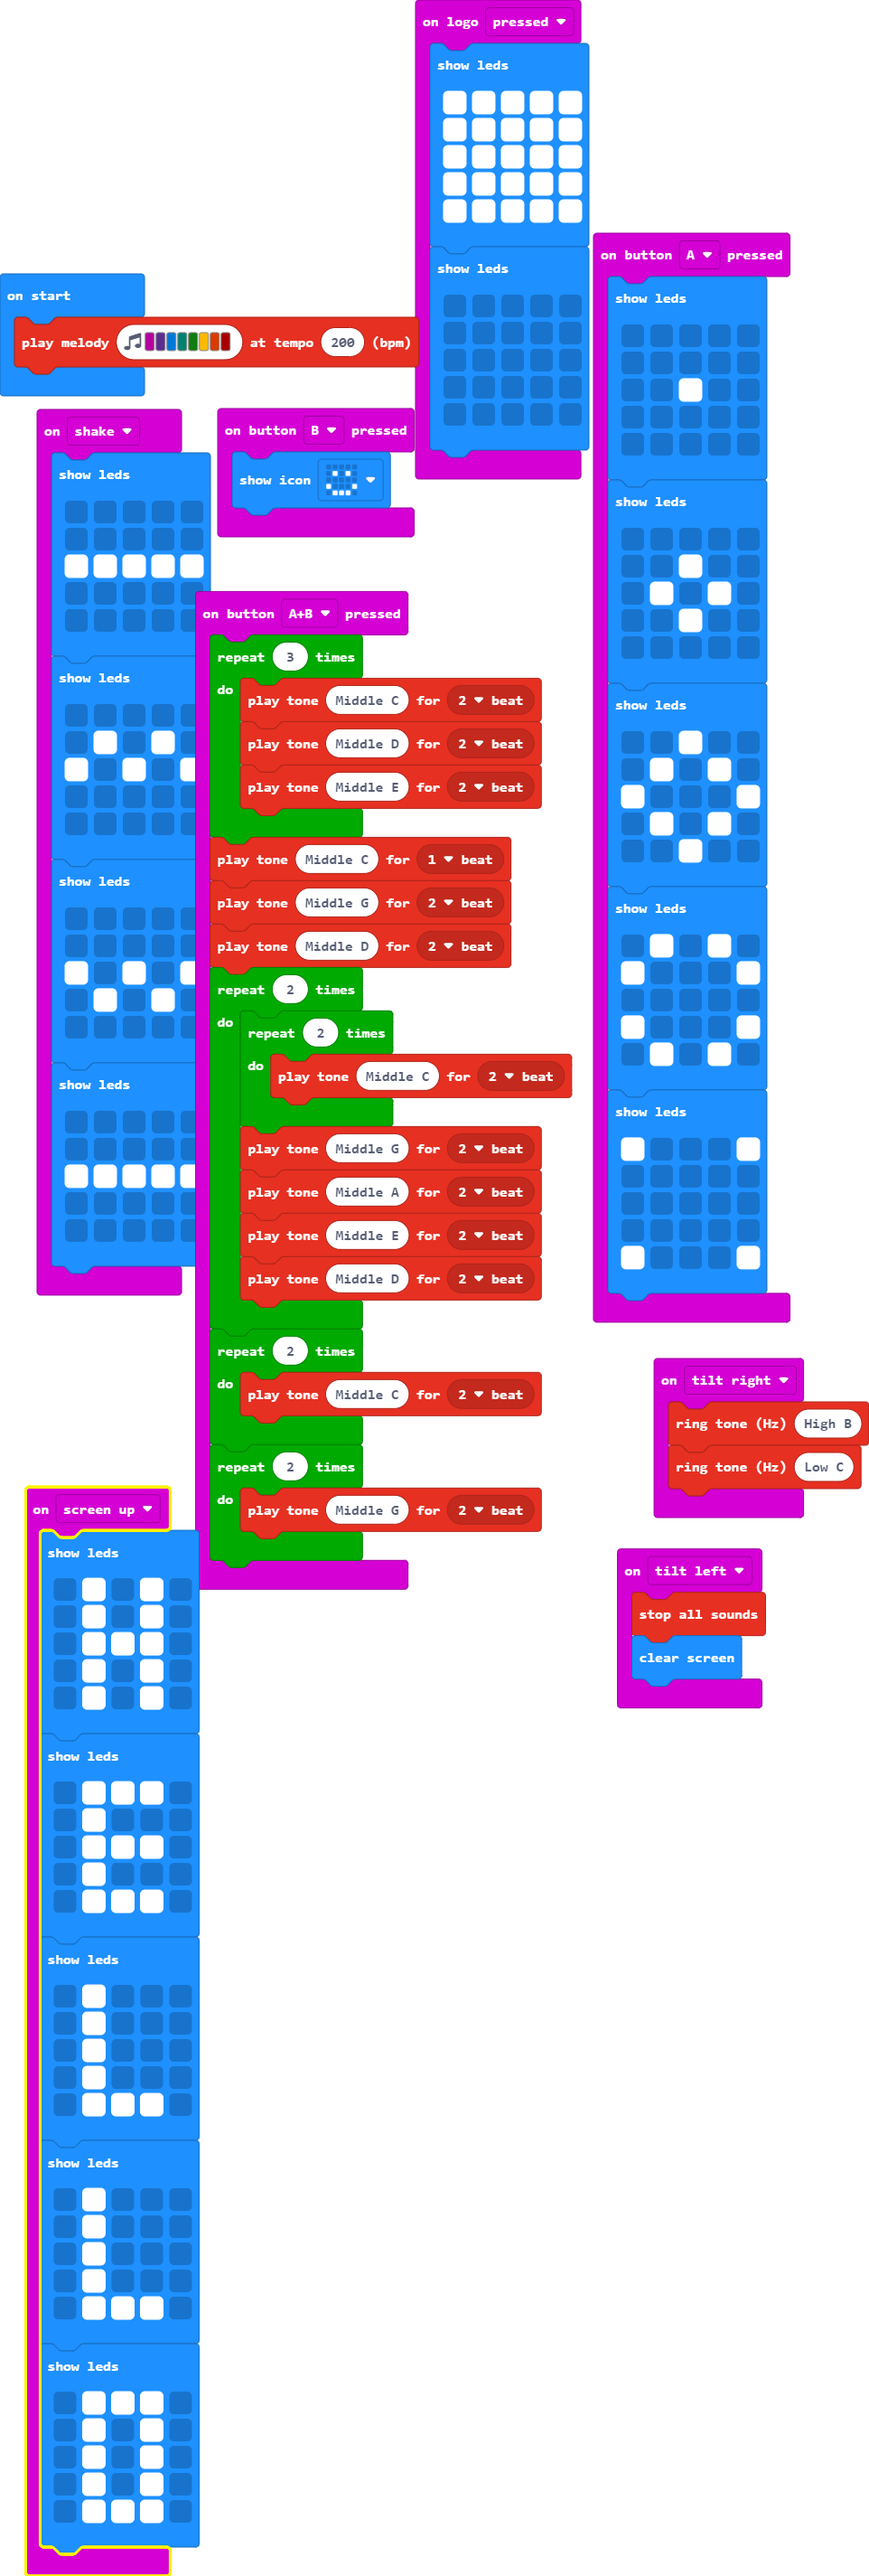
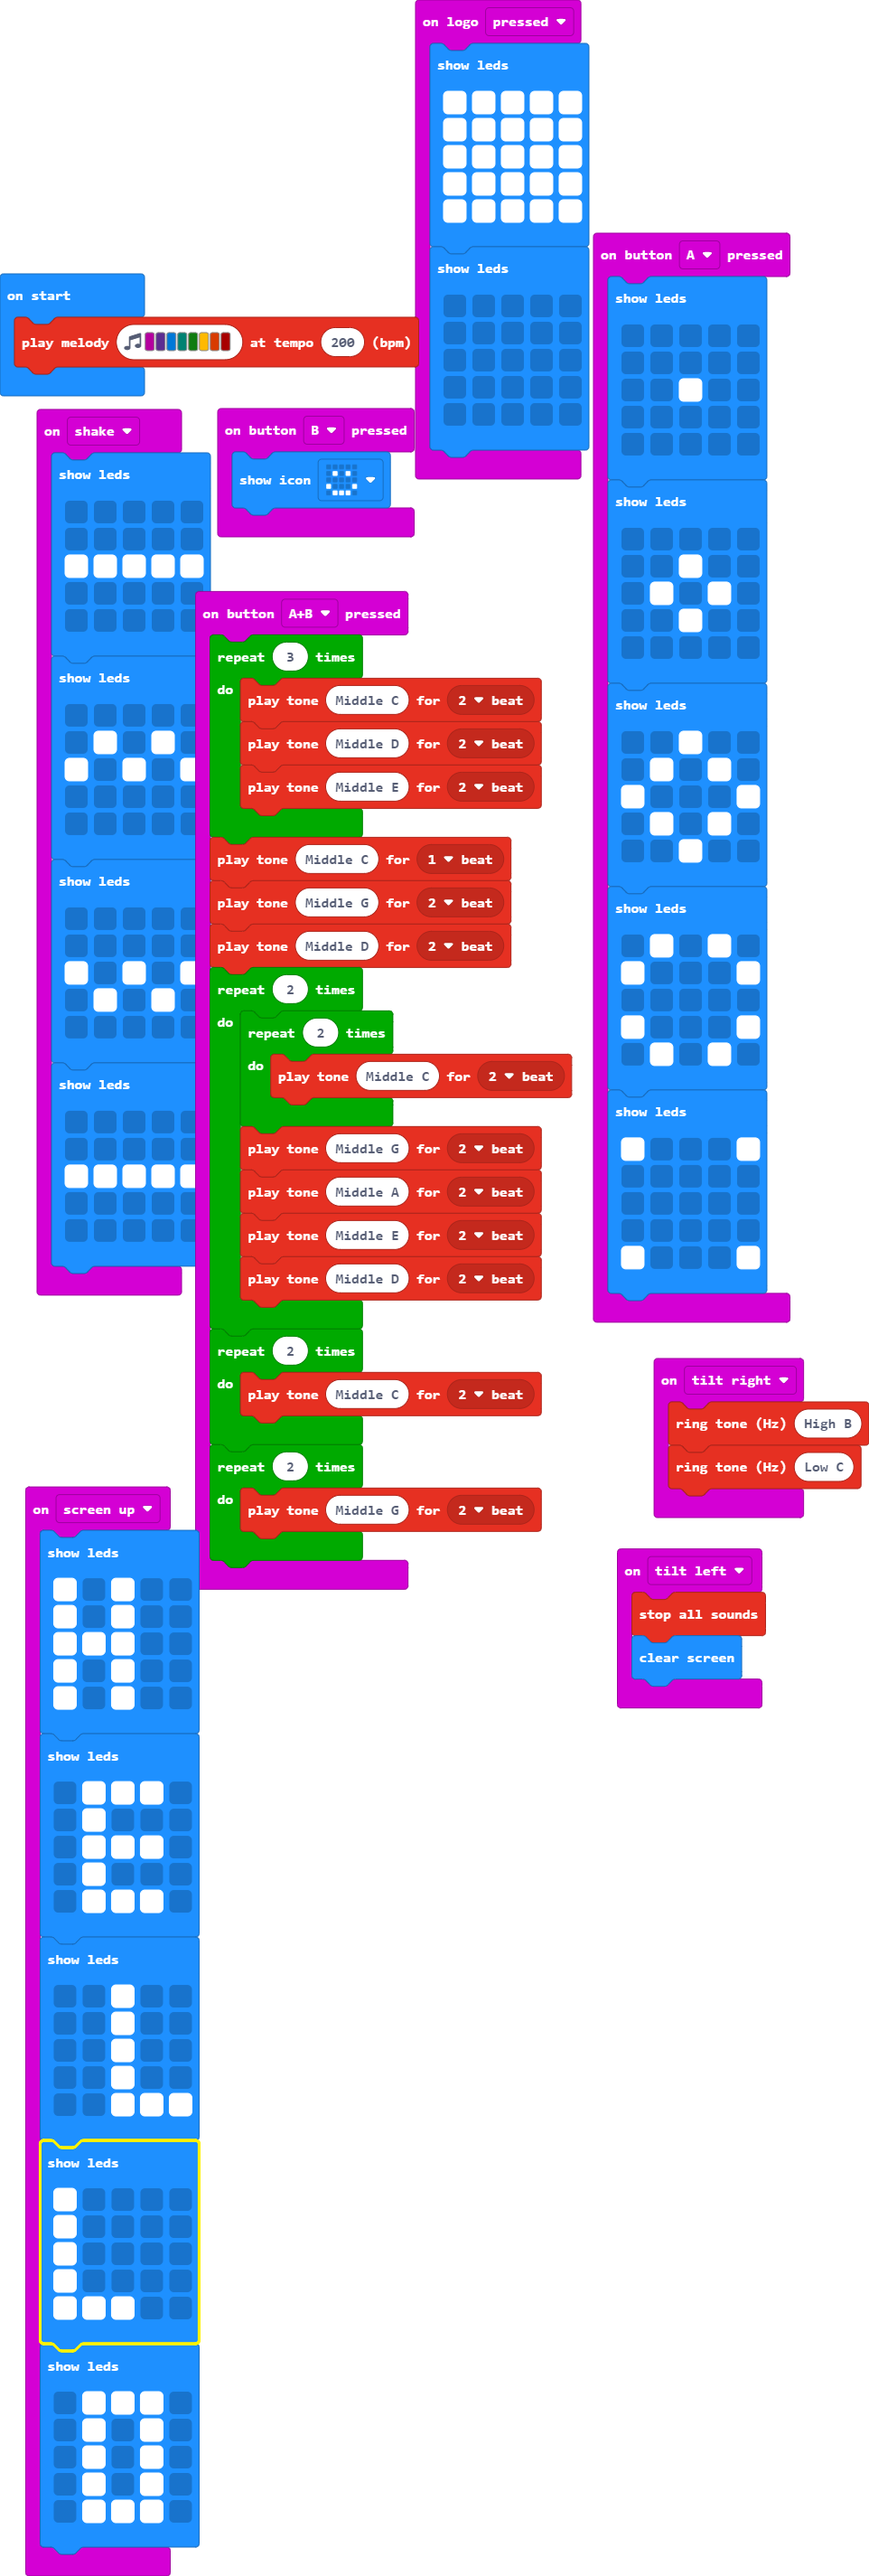
Update main.blocks, main.ts

diff --git a/main.ts b/main.ts
@@ -41,11 +41,11 @@ input.onGesture(Gesture.TiltLeft, function () {
 })
 input.onGesture(Gesture.ScreenUp, function () {
     basic.showLeds(`
-        . # . # .
-        . # . # .
-        . # # # .
-        . # . # .
-        . # . # .
+        # . # . .
+        # . # . .
+        # # # . .
+        # . # . .
+        # . # . .
         `)
     basic.showLeds(`
         . # # # .
@@ -55,18 +55,18 @@ input.onGesture(Gesture.ScreenUp, function () {
         . # # # .
         `)
     basic.showLeds(`
-        . # . . .
-        . # . . .
-        . # . . .
-        . # . . .
-        . # # # .
+        . . # . .
+        . . # . .
+        . . # . .
+        . . # . .
+        . . # # #
         `)
     basic.showLeds(`
-        . # . . .
-        . # . . .
-        . # . . .
-        . # . . .
-        . # # # .
+        # . . . .
+        # . . . .
+        # . . . .
+        # . . . .
+        # # # . .
         `)
     basic.showLeds(`
         . # # # .
